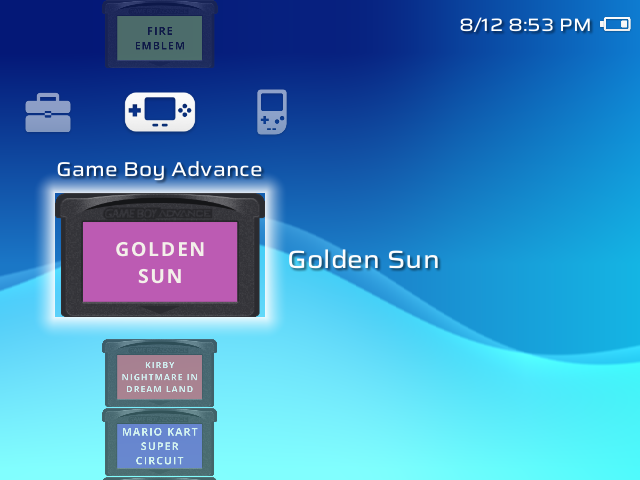
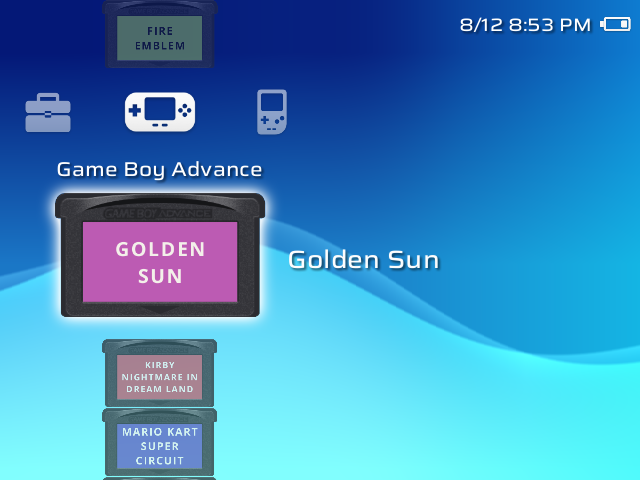
Cart-shaped glow, and full-card release notes in the README
The highlighted cart's glow is now built from the cart's own outline
(GBA cart, notched and rounded paks) instead of a square frame, so it
follows the notches and corners exactly. Labels keep the square frame.

The README now points at a complete card-tree release zip.

Claude-Session: https://claude.ai/code/session_01FsfKRD5qBANRaqUwDsRFL4

Changed region(s): [[0.0625, 0.3438, 0.4375, 0.6875]]

diff --git a/crates/slot-ui/src/xmb/art.rs b/crates/slot-ui/src/xmb/art.rs
@@ -520,3 +520,82 @@ pub fn xmb_glow_face() -> CartFace {
     }
     CartFace { rgba, w: s, h: s }
 }
+
+/// How many cart outlines have a halo: the GBA cart, the notched pak and the rounded one.
+pub const XMB_HALOS: usize = 3;
+
+/// The halo for a cart outline, as `xmb_halo_of` numbers them.
+pub fn xmb_halo_index(shell: Option<crate::GbShell>) -> usize {
+    match shell {
+        None => 0,
+        Some(crate::GbShell::Notched) => 1,
+        Some(crate::GbShell::Rounded) => 2,
+    }
+}
+
+/// The glow around the highlighted cart, following its outline: notches, rounded corners and
+/// all. Built from the cart's own silhouette, blurred out past its edge and cut away beneath
+/// it, with a margin on every side. Returns the face and that margin as fractions of the
+/// cart's width and height, so it can be laid exactly over the drawn cart.
+pub fn xmb_cart_halo_face(index: usize) -> (CartFace, [f32; 2]) {
+    let shadow = match index {
+        0 => crate::cart_shadow(),
+        1 => crate::gb_cart_shadow(crate::GbShell::Notched),
+        _ => crate::gb_cart_shadow(crate::GbShell::Rounded),
+    };
+    let (cw, ch) = (shadow.w as usize, shadow.h as usize);
+    let mask: Vec<f32> = shadow.rgba.chunks_exact(4).map(|p| p[3] as f32 / 255.0).collect();
+    // As wide as the old square frame was against a cover: about a sixth of the cart's height.
+    let m = (ch as f32 * 0.177).round() as usize;
+    let (w, h) = (cw + 2 * m, ch + 2 * m);
+    let mut buf = vec![0.0f32; w * h];
+    for y in 0..ch {
+        buf[(y + m) * w + m..(y + m) * w + m + cw].copy_from_slice(&mask[y * cw..(y + 1) * cw]);
+    }
+    // Three box blurs make a smooth, nearly Gaussian falloff.
+    let r = (m / 3).max(1);
+    let mut tmp = vec![0.0f32; w * h];
+    for _ in 0..3 {
+        box_blur(&buf, &mut tmp, w, h, r, true);
+        box_blur(&tmp, &mut buf, w, h, r, false);
+    }
+    let mut rgba = Vec::with_capacity(w * h * 4);
+    for y in 0..h {
+        for x in 0..w {
+            let inside = match (x.checked_sub(m), y.checked_sub(m)) {
+                (Some(cx), Some(cy)) if cx < cw && cy < ch => mask[cy * cw + cx],
+                _ => 0.0,
+            };
+            let a = (buf[y * w + x] * 2.0).min(1.0) * (1.0 - inside);
+            rgba.extend_from_slice(&[255, 255, 255, (a * 255.0).round() as u8]);
+        }
+    }
+    let face = CartFace {
+        rgba,
+        w: w as u32,
+        h: h as u32,
+    };
+    (face, [m as f32 / cw as f32, m as f32 / ch as f32])
+}
+
+/// A running-sum box blur of radius `r`, along rows or down columns, edges held at zero.
+fn box_blur(src: &[f32], dst: &mut [f32], w: usize, h: usize, r: usize, rows: bool) {
+    let (n, lines) = if rows { (w, h) } else { (h, w) };
+    let at = |line: usize, i: usize| if rows { line * w + i } else { i * w + line };
+    let k = 1.0 / (2 * r + 1) as f32;
+    for line in 0..lines {
+        let mut sum = 0.0f32;
+        for i in 0..=r.min(n - 1) {
+            sum += src[at(line, i)];
+        }
+        for i in 0..n {
+            dst[at(line, i)] = sum * k;
+            if i + r + 1 < n {
+                sum += src[at(line, i + r + 1)];
+            }
+            if i >= r {
+                sum -= src[at(line, i - r)];
+            }
+        }
+    }
+}

diff --git a/crates/slot-ui/src/xmb/mod.rs b/crates/slot-ui/src/xmb/mod.rs
@@ -9,7 +9,10 @@ mod palette;
 mod text;
 mod waves;
 
-pub use art::{xmb_frame_glow_face, xmb_glow_face, xmb_icon_face, XmbIcon, XMB_ICONS};
+pub use art::{
+    xmb_cart_halo_face, xmb_frame_glow_face, xmb_glow_face, xmb_halo_index, xmb_icon_face, XmbIcon,
+    XMB_HALOS, XMB_ICONS,
+};
 pub use palette::{
     month_of, xmb_backdrop_colours, xmb_backdrop_edges, xmb_clock_text, xmb_colour_index, xmb_date_time_text, civil, XMB_DATE_FORMATS, XMB_TIME_FORMATS, xmb_swatch, XMB_COLOUR_COUNT, XMB_MONTHS,
     XMB_PALETTE,
@@ -45,6 +48,8 @@ pub struct XmbArt {
     pub title: Option<(TexId, [f32; 4])>,
     /// The glow from the foot of the screen, in the theme's pale colour.
     pub foot: Option<TexId>,
+    /// `xmb_cart_halo_face` for each cart outline, with its margins.
+    pub halos: [Option<(TexId, [f32; 2])>; XMB_HALOS],
 }
 
 /// A rendered line of text and its size.
@@ -66,6 +71,8 @@ pub struct XmbRow {
     pub aspect: f32,
     pub colour: [u8; 3],
     pub title: Option<XmbText>,
+    /// For a cart drawn whole, which outline's halo it glows with (`xmb_halo_index`).
+    pub halo: Option<usize>,
 }
 
 /// How big a column's rows are, in pixels on a 480-line screen.
@@ -386,9 +393,24 @@ impl Xmb<'_> {
             let (ix, iy) = ((x - w / 2.0).round(), (y - h / 2.0).round());
             // The highlighted item glows, breathing slowly: a cover all round its edge.
             if self.sizes.covers && near > 0.5 {
-                if let Some(tex) = self.art.frame {
-                    let g = (near - 0.5) * 2.0 * (1.0 - nest) * (self.pulse() * 1.35).min(1.0) * a;
-                    nine_slice(tex, ix, iy, w, h, 22.0 * s, g, out);
+                let g = (near - 0.5) * 2.0 * (1.0 - nest) * (self.pulse() * 1.35).min(1.0) * a;
+                match row.halo.and_then(|k| self.art.halos.get(k).copied().flatten()) {
+                    // A whole cart: the glow follows its outline exactly.
+                    Some((tex, [mx, my])) if g > 0.0 => out.push(Draw::Tex {
+                        x: ix - w * mx,
+                        y: iy - h * my,
+                        w: w * (1.0 + 2.0 * mx),
+                        h: h * (1.0 + 2.0 * my),
+                        tex,
+                        alpha: g,
+                    }),
+                    Some(_) => {}
+                    // A label: a rectangle, so the square frame fits it.
+                    None => {
+                        if let Some(tex) = self.art.frame {
+                            nine_slice(tex, ix, iy, w, h, 22.0 * s, g, out);
+                        }
+                    }
                 }
             } else if near > 0.5 && nest < 1.0 {
                 if let Some(tex) = self.art.glow {

diff --git a/crates/slot-ui/src/lib.rs b/crates/slot-ui/src/lib.rs
@@ -112,7 +112,7 @@ pub use xmb::{
     xmb_curves_at, xmb_flare_face, xmb_intro_shape, xmb_pale, xmb_loading_ring, xmb_outro_t, xmb_ring_face,
     XmbIntro, xmb_boot_picture, xmb_foot_face, xmb_title_alpha, xmb_title_face, XMB_INTRO_TITLE, XMB_INTRO_BAR, XMB_INTRO_BLOOM, XMB_INTRO_CLOCK, XMB_INTRO_END, XMB_INTRO_WAVES,
     XMB_OUTRO_SECS,
-    xmb_frame_glow_face, xmb_glow_face, xmb_icon_face, xmb_picker_centred, xmb_picker_first, xmb_picker_open, xmb_swatch, xmb_text_face, Xmb,
+    xmb_cart_halo_face, xmb_halo_index, XMB_HALOS, xmb_frame_glow_face, xmb_glow_face, xmb_icon_face, xmb_picker_centred, xmb_picker_first, xmb_picker_open, xmb_swatch, xmb_text_face, Xmb,
     XmbArt, XmbCat, XmbClockEdit, XmbEntry, XmbIcon, XmbItem, XmbList, XmbPicker, XmbRow, XmbSize, XmbSizes,
     XmbText, XMB_COLOUR_COUNT, XMB_MONTHS, XMB_PALETTE, XMB_WAVE_CLASSIC, XMB_WAVE_ORIGINAL,
 };

diff --git a/crates/slot/src/app/xmb.rs b/crates/slot/src/app/xmb.rs
@@ -485,6 +485,7 @@ impl App {
                 aspect: 1.0,
                 colour: [0xff; 3],
                 title: t.get(XmbSize::Title, r.label()),
+                halo: None,
             })
             .collect()
     }
@@ -609,6 +610,10 @@ impl App {
                 aspect,
                 colour: slot_ui::label_colour(&title),
                 title: t.get(XmbSize::Title, &title),
+                halo: match self.state.xmb_labels && face.is_some() {
+                    true => None,
+                    false => Some(slot_ui::xmb_halo_index(slot_ui::gb_shell_of(cart))),
+                },
             });
         }
         rows

diff --git a/crates/slot/src/frontend.rs b/crates/slot/src/frontend.rs
@@ -162,6 +162,10 @@ fn sync_xmb(app: &mut App, compositor: &mut Compositor, xs: &mut XmbSync) {
         xs.art.glint = Some(compositor.create_texture(f.w, f.h, &f.rgba));
         let f = slot_ui::xmb_ring_face();
         xs.art.ring = Some(compositor.create_texture(f.w, f.h, &f.rgba));
+        for k in 0..slot_ui::XMB_HALOS {
+            let (f, margin) = slot_ui::xmb_cart_halo_face(k);
+            xs.art.halos[k] = Some((compositor.create_texture(f.w, f.h, &f.rgba), margin));
+        }
     }
     let theme = app.xmb_theme_rgb();
     if xs.flare_rgb != Some(theme) {

diff --git a/crates/slot/tests/xmb_shots.rs b/crates/slot/tests/xmb_shots.rs
@@ -74,6 +74,10 @@ impl Soft {
         art.glint = Some(self.add(f.w, f.h, f.rgba));
         let f = slot_ui::xmb_ring_face();
         art.ring = Some(self.add(f.w, f.h, f.rgba));
+        for k in 0..slot_ui::XMB_HALOS {
+            let (f, margin) = slot_ui::xmb_cart_halo_face(k);
+            art.halos[k] = Some((self.add(f.w, f.h, f.rgba), margin));
+        }
         let (f, at) = slot_ui::xmb_title_face(app.canvas());
         art.title = Some((self.add(f.w, f.h, f.rgba), at));
         let mut curves = Vec::new();

diff --git a/README.md b/README.md
@@ -79,9 +79,10 @@ Everything here is built behind a `xmb` cargo feature. Without that feature, slo
 
 # Install
 
-1. Install upstream slot as described in the [slot guide](https://slot-cfw.fyi).
-2. Download `slot-xmb-rgsp.zip` from this fork's [releases](../../releases).
-3. Copy its `System/slot` over the one on your SD card.
+Download `slot-xmb-v1.0-h700.zip` from this fork's [releases](../../releases). It's the complete slot v1.9.0 card layout, with the same cores, scripts and folders, plus the XMB build of `System/slot`.
+
+- **New install:** follow the [slot guide](https://slot-cfw.fyi), using this zip in place of slot's own release.
+- **Already running slot v1.9.0:** copy only `System/slot` from the zip over the one on your SD card. Your games, saves and settings stay as they are.
 
 The boot picture is written to the device the first time the new build runs. It shows from the following boot onwards.
 
